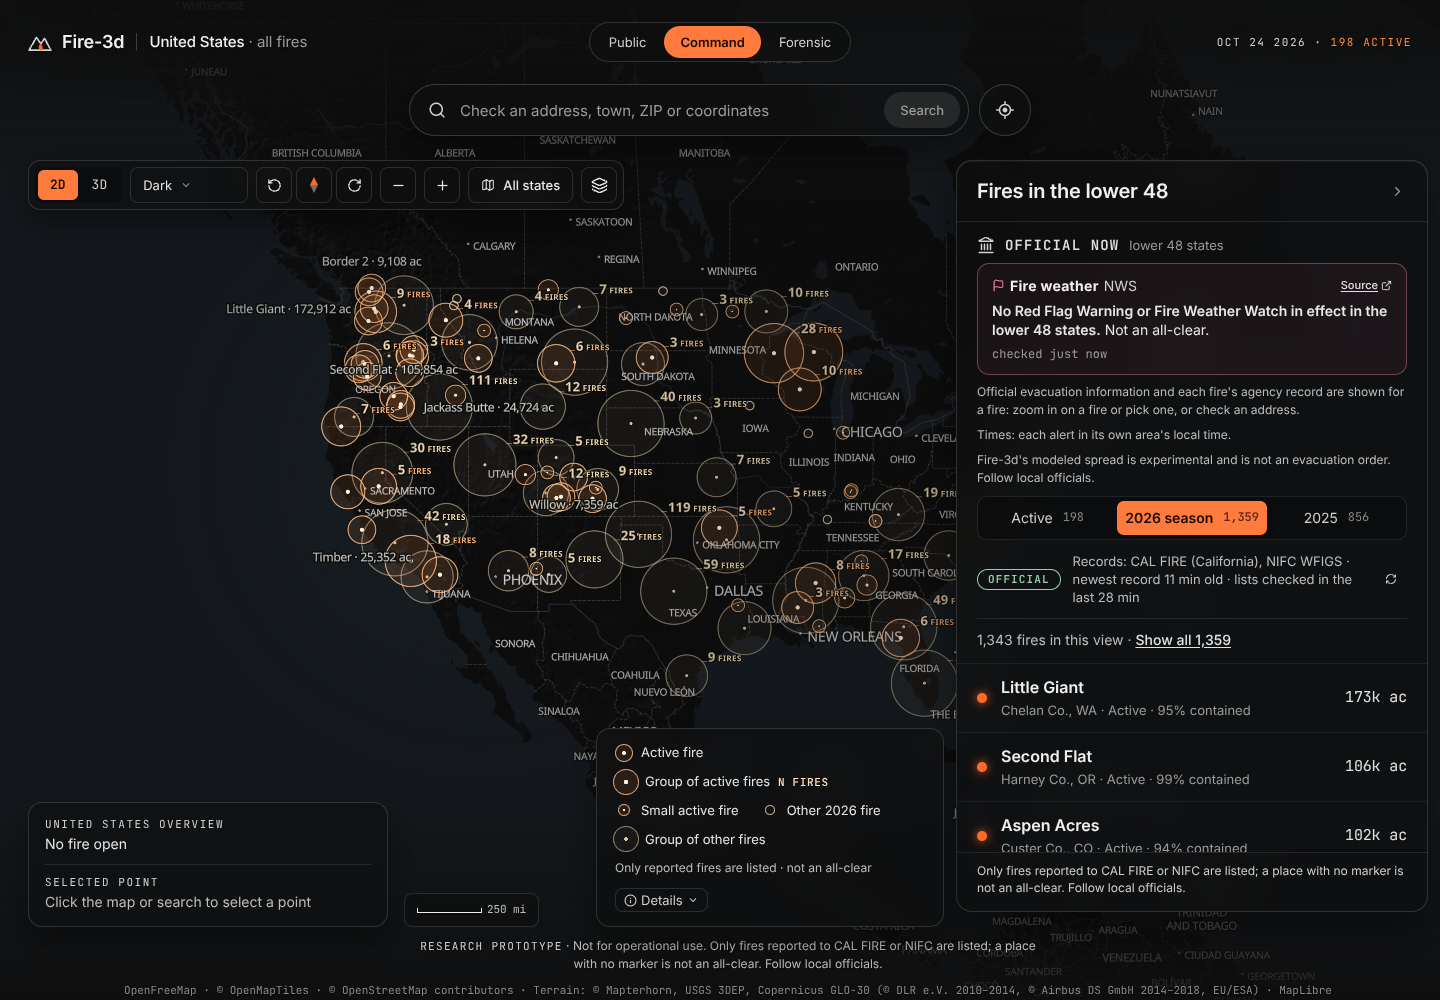
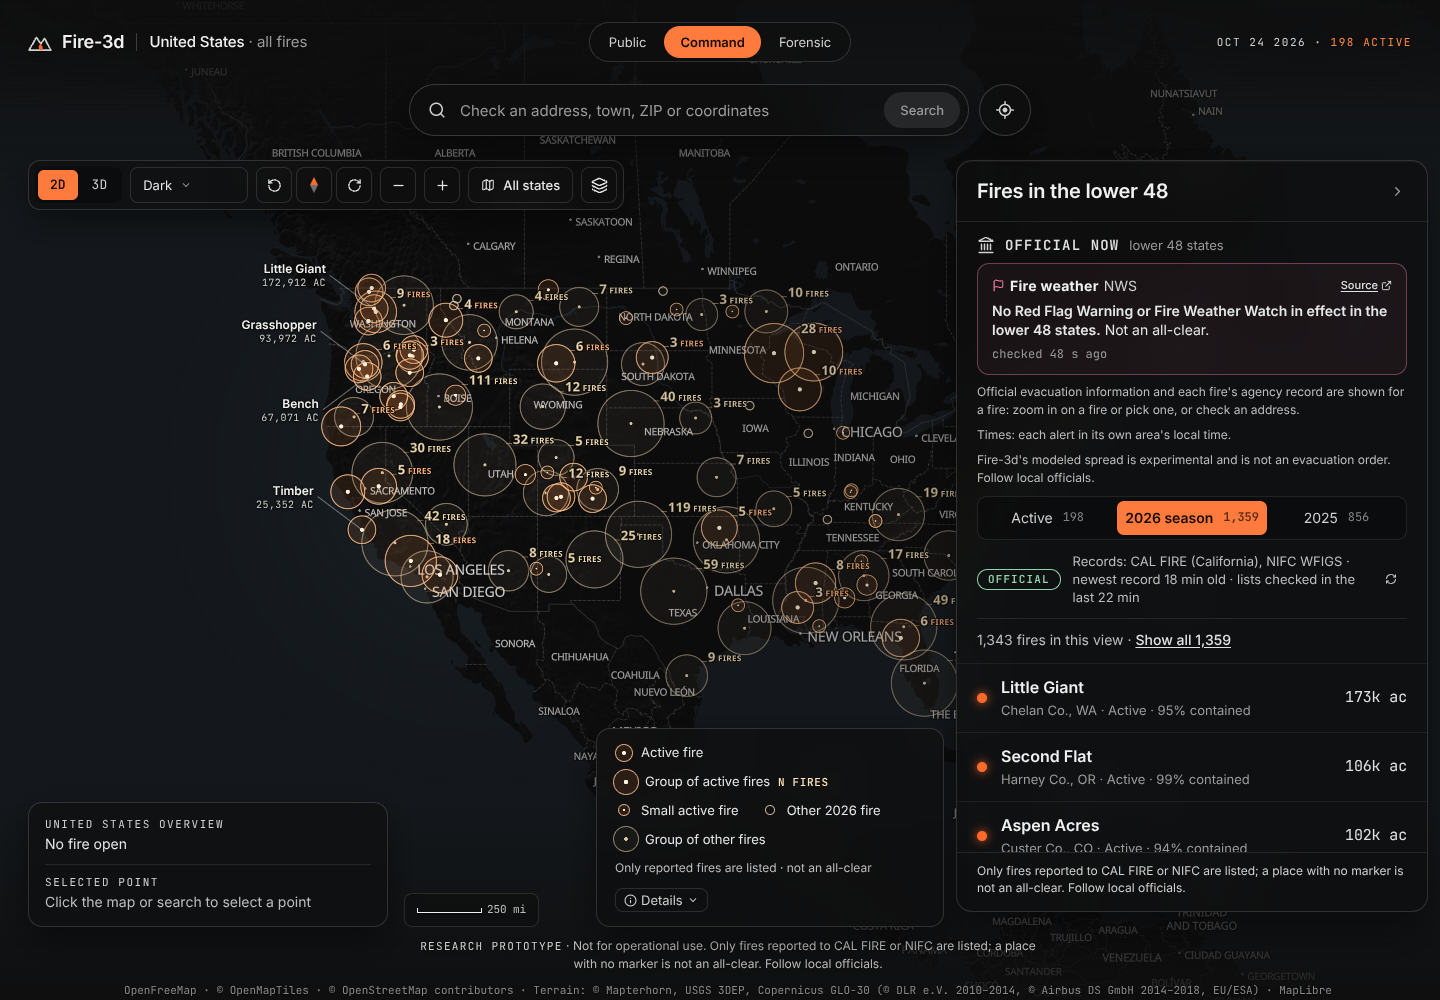
brief 4 H3+H4 fix: review fixes for the Public overview and fire view (R1-R9, DF-H34-1..10)
Safety: the fire view's bar keeps "Not an all-clear. Follow local officials." in every
state; list-down and list-failure notices show as a top-centre banner while the list is
not open; locate-me keeps the device location in the browser until "Check this spot"
(which says what it sends); the Public card shows no model output at all.
Behaviour: group click zooms at least one level; an old ?t= hold is dropped when the fire
closes; Public search and nearest-fire wording opens the fire view.
Design: group counts collide (larger first); leader lines never cross, capped length,
off markers' centres, counts, chrome and the dark style's place names; circle text >= 10 px
with a two-line status; long names wrap without losing words; facts column steps
snug/tight/tighter (More below when still scrolling); one-line key with the publisher;
update row year; no repeated evacuation reason; 44 px phone targets.
DF-H34-11 (optional polish) skipped. Gates: typecheck ok, lint 55 (all src/scene),
tests 1383 passed + 2 skipped, build ok. CONTRACT 15.5 H3+H4 "Review fixes", report
reports/brief4-h3h4-fix.json, screenshots brief4-h3h4-fix-*.png.

Claude-Session: https://claude.ai/code/session_016JQLLLPiy3zrdDeXcY1uZS

diff --git a/web/src/map/leaderLayout.ts b/web/src/map/leaderLayout.ts
@@ -227,8 +227,9 @@ export function layoutLeaders(items: readonly LeaderItem[], o: LeaderOptions): L
   for (const item of items) {
     if (placed.length >= max) break
     if (!(item.at.x >= o.free.left && item.at.x <= o.free.right && item.at.y >= o.free.top && item.at.y <= o.free.bottom)) continue
-    // the other markers and group centres a leader must not run over (its own marker is where it starts)
-    const others = circles.filter((m) => !(m.id === item.id || (Math.abs(m.x - item.at.x) < 0.5 && Math.abs(m.y - item.at.y) < 0.5)))
+    // the other markers and group centres a leader must not run over: not its own marker, nor one whose centre lies
+    // under it (every leader starts there, so none could keep clear of it)
+    const others = circles.filter((m) => m.id !== item.id && Math.hypot(m.x - item.at.x, m.y - item.at.y) > item.r)
     for (const c of leaderCandidates(item, o.free, gx)) {
       const box = c.box
       const padded = inflate(box, pad)

diff --git a/web/src/map/LeaderLabels.tsx b/web/src/map/LeaderLabels.tsx
@@ -153,7 +153,6 @@ function computeSpots(map: MapLibreMap, insets: { top: number; right: number; bo
   const narrow = c.clientWidth < NARROW_MAP_PX
   const max = narrow ? NARROW_LEADER_MAX : LEADER_MAX
   const placed = layoutLeaders(candidates, { free, obstacles, lineObstacles, circles, max, maxLen: narrow ? LEADER_MAX_LEN_NARROW : LEADER_MAX_LEN })
-  ;(window as unknown as Record<string, unknown>).__ldrDebug = { candidates, opts: { free, obstacles, lineObstacles, circles, max, maxLen: narrow ? LEADER_MAX_LEN_NARROW : LEADER_MAX_LEN } } // TEMP-DEBUG
   const spots = placed.map((s) => {
     const x = byId.get(s.id)!
     return { ...s, name: x.name, meta: leaderAcres(x.acres, units), lngLat: x.lngLat }

diff --git a/web/src/styles/view-public.css b/web/src/styles/view-public.css
@@ -1413,6 +1413,13 @@
     font-size: 9px;
     letter-spacing: 0.06em;
   }
+  /* 9 px (review DF-H34-3) inside the 120 px circle's lower chord: the words without the chevron */
+  .pfv-circle.is-compact .pfv-circle-more {
+    letter-spacing: 0.02em;
+  }
+  .pfv-circle.is-compact .pfv-circle-more svg {
+    display: none;
+  }
   /* the status on two lines in the small circle ("WILDFIRE" / "DECLARED OUT") */
   .pfv-circle.is-compact .pfv-circle-status {
     display: flex;

diff --git a/docs/redesign/CONTRACT.md b/docs/redesign/CONTRACT.md
@@ -3679,6 +3679,67 @@ Where this differs from §15.1-15.4, this paragraph is what the code does.
   checks 39/39 (profile layers, newest perimeter only and filled, time, leader, search, card, Command round trips and
   time hand-back, `?t=`, chip, hidden-tab pause, reduced motion, X back).
 
+**Review fixes** (step H3+H4 fix, 2026-10-24; two reviews of H3+H4, design fidelity and behaviour / features /
+safety; per finding in `reports/brief4-h3h4-fix.json`, screenshots `docs/screenshots/brief4-h3h4-fix-*.png`). Where this
+differs from the H3 and H4 paragraphs above, this paragraph is what the code does. No H2 frozen file, backend file or HTTP
+contract changed.
+- *Fixed copy in the fire view* (R1, blocker): the bottom bar is `FixedCopy variant="bar" extra={NOT_ALL_CLEAR}`
+  (`PROTOTYPE_LINE` · `NOT_ALL_CLEAR`, wrapping onto two short lines), so both lines stay with "H", the phones' Layers
+  drawer and search; the facts' foot keeps its own line.
+- *List notices* (R2): `ui/shell/useOverviewData.ts` (moved out of `OverviewPanel.tsx`: `LIST_OF`, `useOverviewData`,
+  new `useListNotices() → { lines, retry }`) and `ui/public/ListNoticeBanner.tsx`: while the list is not open (Public
+  minimal, phones with the sheet closed) the panel's own list-down / list-failure lines show as a banner in App.tsx's
+  top-centre slot (a portal, App.tsx unchanged), with Retry for a failed list, dismissable, back when the words change.
+- *Locate-me* (R3; decision i-7 kept): a fix only sets `workspace.device` and flies the map there
+  (`requestMapFlyTo`); `map/DeviceMarker.tsx` marks it (light-blue dot, white ring, halo, dashed ring when coarser than
+  100 m, mono "YOU"; SVG over the map, `aria-hidden`); nothing is sent. The prompt under the button (`LOCATE_FOUND`,
+  `LOCATE_CHECK_NOTE`) says it stays in this browser and what a check sends; "Check this spot" makes it the selected
+  point (`deviceSelection`, the only `selectLocation` in `LocateButton.tsx`), which the card checks like a map click;
+  "Stop showing my location" clears `device`. Card line: "Your location from your browser, checked at your request (not
+  added to the link)". `LOCATE_TIP` no longer says the point is not saved after a check.
+- *No model output in the Public card* (R4): `location/publicCard.ts withoutModel(card)` also drops the reasons and
+  details lines tagged Model (weather-model wind and dryness), the forecast's own caveats (`locationCheck.ts
+  isModelCaveat`, `ensembleCaveat`, `MODEL_SPOTTING_CAVEAT`, `MODEL_EDGE_CAVEAT`) and every model source;
+  `MODEL_IN_COMMAND` = "Model weather (wind, dryness) and the experimental spread model for this spot are in Command".
+- *Wording* (R5, R8 / DF-H34-10, R9, DF-H34-9): in Public a fire search result reads "· opens the fire view" (tooltip "Open
+  the fire view of …") and a nearest-fire row's tooltip says the same; `fireView.ts evacReasonRest(reason, value)` drops a
+  reason that only repeats "Not available in this state (<State>)"; `fireLabel(name)` ("Willow fire", "Eaton Fire") in
+  the title's hidden prefix and the circle's name; `updateYear(start, updated, now, tz)` shows the update row's year
+  whenever the start shows one or the years differ ("May 7, 2026").
+- *Group click* (R6): `clusterClickZoom` zooms at least one level in (still capped at 8, never out).
+- *Held time* (R7): `usePublicFireTime.ts leaveHold(held, { incidentId, preset })`: the hold is given back on a switch to
+  Command in the same fire and dropped when the fire closes (X, Back, another fire); kept only while the same fire stays
+  open in Public.
+- *Group counts* (DF-H34-1): the count layers collide (`text-allow-overlap` / `icon-allow-overlap` false, `icon-optional`,
+  `text-padding` 2, `symbol-sort-key` −point_count): the larger group keeps its "N FIRES", a count with no room is left
+  out (the circle's size and the hover still give it). The leader layout's count obstacles are the placed counts only.
+- *Leader lines* (DF-H34-2): `leaderLayout.ts` adds `segmentsCross`, `segmentHitsCircle`, `LINE_CLEAR_PX` (4),
+  `LEADER_MAX_LEN` 140 / `LEADER_MAX_LEN_NARROW` 90, options `lineObstacles` and `maxLen`: a candidate is skipped when its
+  leader is longer than the cap, crosses a placed leader, passes within 4 px of another marker's or group's centre
+  (circles under the item's own marker are ignored) or crosses chrome or a placed count. Measured at 1440 × 1144: 8
+  labels, 0 crossings (5 before), leaders 54-149 px from the marker centre (at most 140 beyond its ring; 268 px before);
+  Command overview 4 labels; a phone's national view now has none (no spot
+  passes; the fire list names every fire).
+- *Place names* (DF-H34-5): `leaderLayout.ts placeLabelLayers(style layers)` = every symbol layer of the "place" and
+  "water_name" source layers, so the dark style's `place_*` names are obstacles too.
+- *Hazard circle* (DF-H34-3, DF-H34-6): status and "MORE IN COMMAND" never under 10 px (`max(10px, …)`; 9 px in the
+  phones' 120 px circle, where the chevron is left out); a circle under 300 px puts the status on two lines (`@container
+  pfv-circle`). `fitName(…, floorPx = 28)`: a long name goes below 40 px over up to three lines (four at 28-30 px), its
+  words in order; one too long even then is one block clamped to four lines (`FittedName.clamp`, `.is-clamped`); the
+  circle's tooltip then gives the whole name.
+- *Facts room* (DF-H34-4): `ui/public/useFactsFit.ts useFactsFit(slot, enabled) → { level, tight, more, scrollMore }`
+  (`fitKey`, `hiddenBelow`): while the facts overflow the column, one step at a time `.pfv-left.is-snug` (gap 28, row
+  padding 7), `.is-tight` (+ circle 248), `.is-tighter` (circle 200, gap 18, padding 5), decided before paint and kept
+  for the same window size and facts words (no flip-flop); still overflowing, the foot shows "More below" (`.pfv-more`,
+  scrolls the facts). Lower Sugarloaf at 1440 × 1000 is snug with the 312 px circle; Eaton with its local alert is
+  tighter with every row and the foot in view.
+- *Key* (DF-H34-8): `perimeterKey` gives `text` "Latest perimeter · <publisher>" (`shortPerimeterSource`) and `source`
+  (the whole string, the tooltip); the time and the Stale tag never break; the key is up to 900 px, one line at 1440.
+- *Phones* (DF-H34-7): the overview's and fire view's bar buttons are 44 px; the pill's Search button and "© Credits" get
+  a transparent 44 px hit area.
+- *Not changed* (DF-H34-11, nit): the overview's bottom-row offsets and the scale bar's form (labels above a 140 px
+  bracket) stay as H3 built them (see the report).
+
 #### H5 (Forensic) — as built
 
 Built 2026-10-24 by H5 (one builder; report `reports/brief4-h5.json`, screenshots `docs/screenshots/brief4-h5-*.png`,

diff --git a/docs/redesign/progress/brief4-h3h4-fix.md b/docs/redesign/progress/brief4-h3h4-fix.md
@@ -5,3 +5,7 @@ Step: fix the two H3+H4 reviews (design DF-H34-1..11, behaviour R1..R9). Ports A
 - Started; read BRIEF-4, PLAN-4, CONTRACT 15, HANDOFF, reports. Servers up.
 - Done (code): R1 (bar FixedCopy + NOT_ALL_CLEAR), R5 (Public wording), R6 (group click >= 1 level), R7 (hold dropped on close; leaveHold), R8/DF-10 (evacReasonRest), R9 (fireLabel), DF-3 (10 px floors + 2-line status via container query), DF-4 (useFactsFit tight column + More below), DF-6 (fitName to 28 px / 3-4 lines / clamp), DF-8 (short source + nowrap), DF-9 (updateYear).
 - Next: DF-1 group counts, DF-2 leaders, DF-5 place layers, DF-7 touch targets, R2 list-down banner, R3 locate-me, R4 model weather lines, DF-11 nit.
+- Done (code): DF-1 (count collision), DF-2 (no crossings, 140/90 px cap, line obstacles), DF-5 (style place layers), DF-7 (44 px), R2 (ListNoticeBanner via portal), R3 (option a: device stays in the browser until "Check this spot"; DeviceMarker), R4 (publicCard.withoutModel).
+- Iterations: facts fit became three steps (snug / tight / tighter) so the 312 px circle stays for 7-row fires; bar note wraps (overflow visible); key max 900 px; compact circle drops the chevron; leader circles under the item's own marker ignored (Little Giant was blocked by a group centre under its marker).
+- Checks: overview 31/31, fire view 27/27, console sweep 8/8. Gates green (lint 55, all scene). DF-11 skipped (optional polish).
+- Docs: CONTRACT 15.5 H3+H4 "Review fixes" paragraph; reports/brief4-h3h4-fix.json; screenshots brief4-h3h4-fix-*.png.
